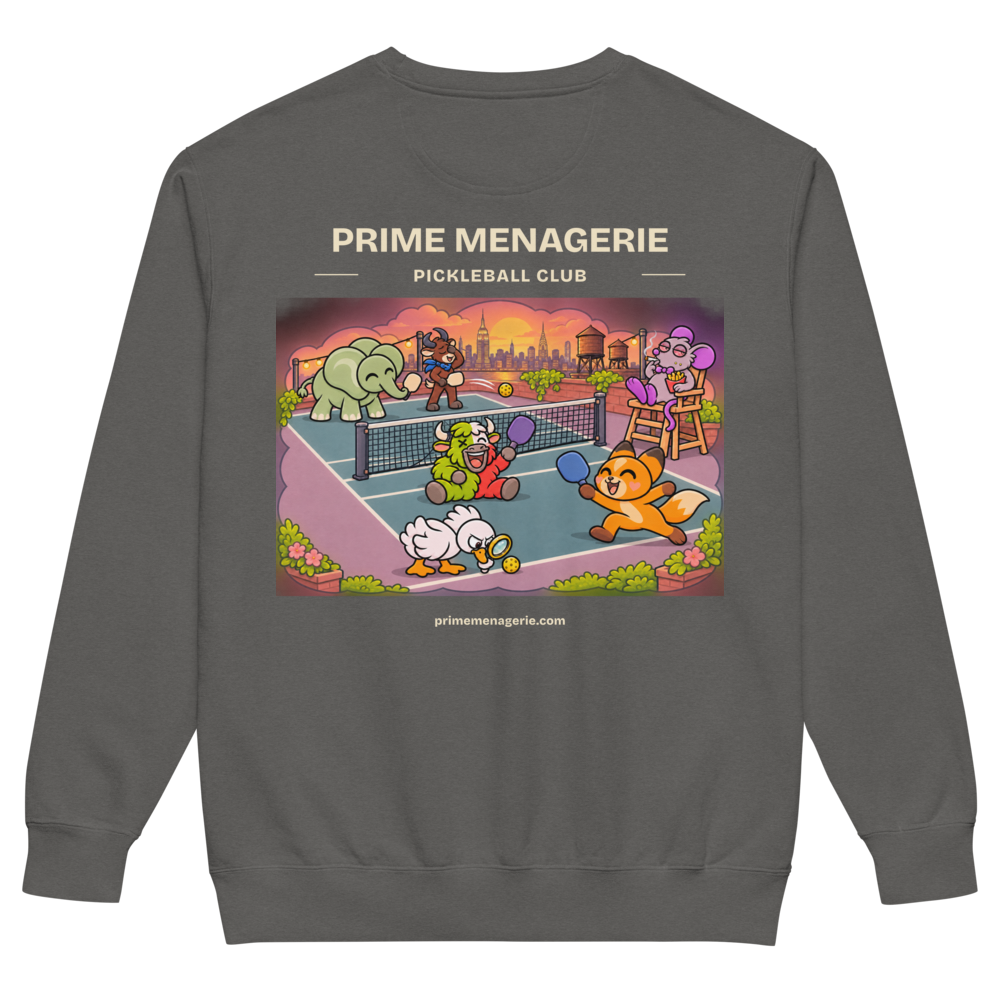
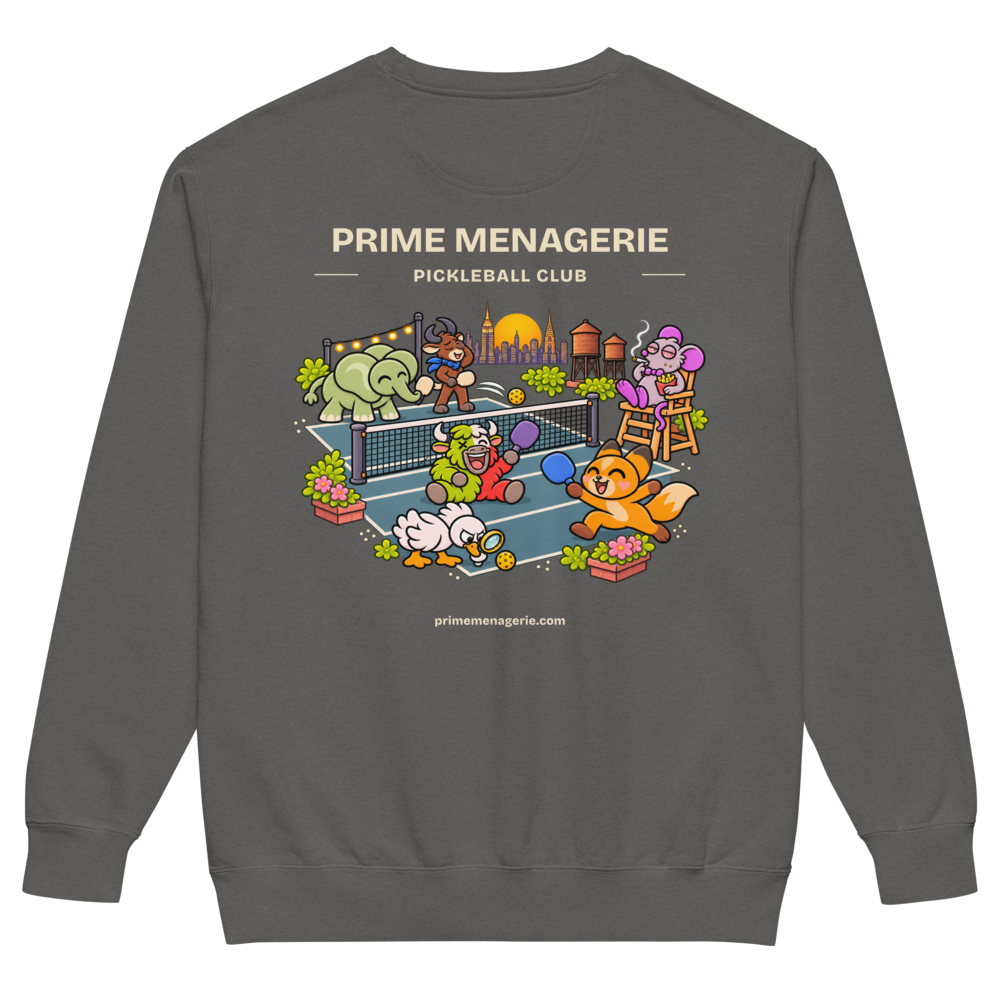
Publish organic cutout graphics on both club crewnecks (#101)
* Prepare organic cutout scenes for Pickleball and Bowling crewnecks

* Prepare storefront previews for organic crewneck graphics

Changed region(s): [[0.279, 0.279, 0.744, 0.62]]

diff --git a/src/lib/productPages.ts b/src/lib/productPages.ts
@@ -70,7 +70,7 @@ const KINDS: Record<string, Kind> = {
   },
   menagerieCrewneck: {
     label: 'Garment-dyed crewneck sweatshirt', productType: 'Apparel > Tops > Sweatshirts', apparel: true,
-    facts: ['Comfort Colors 1566, 80% ring-spun cotton and 20% polyester', 'Heavyweight 9.5 oz/yd² fleece with a 100% cotton face', 'Relaxed fit with ribbed collar, cuffs and waistband', 'Blue Spruce, Pepper, True Navy or Butter; garment dye may vary slightly', 'Printed left-chest badge and 15-inch-wide back illustration'],
+    facts: ['Comfort Colors 1566, 80% ring-spun cotton and 20% polyester', 'Heavyweight 9.5 oz/yd² fleece with a 100% cotton face', 'Relaxed fit with ribbed collar, cuffs and waistband', 'Blue Spruce, Pepper, True Navy or Butter; garment dye may vary slightly', 'Printed left-chest badge and 15-inch-wide cutout scene on the back'],
   },
   pickleballLongSleeve: {
     label: 'Garment-dyed heavyweight long sleeve', productType: 'Apparel > Tops > Long Sleeve Shirts', apparel: true,
@@ -135,9 +135,9 @@ const FC_BACK = 'The back reads 143 (pager code for I love you) over FAR FOX FC,
 
 /** What is on each product, in a few sentences, keyed by provider product id. */
 export const PRODUCT_COPY: Record<string, string> = {
-  '490239643': 'Rooftop doubles with the whole Prime Menagerie. Antelope teams up with the elephant across the net from Foxy and Scan Yak, Goose inspects the ball, and Slab Rat takes an exceptionally relaxed umpire shift. The New York skyline glows behind the court. A small Pickleball Club badge sits on the left chest, with the full scene and primemenagerie.com across the back. Printed on a soft Comfort Colors crewneck in Blue Spruce, Pepper, True Navy or Butter.',
+  '490239643': 'Rooftop doubles with the whole Prime Menagerie. Antelope teams up with the elephant across the net from Foxy and Scan Yak, Goose inspects the ball, and Slab Rat takes an exceptionally relaxed umpire shift. The New York skyline glows behind the court. A small Pickleball Club badge sits on the left chest, with an illustrated cutout scene and primemenagerie.com across the back. Printed on a soft Comfort Colors crewneck in Blue Spruce, Pepper, True Navy or Butter.',
   '490192967': 'Rooftop doubles with the whole Prime Menagerie. Antelope teams up with the elephant across the net from Foxy and Scan Yak, Goose inspects the ball, and Slab Rat takes an exceptionally relaxed umpire shift. The New York skyline glows behind the court. A small Pickleball Club badge sits on the left chest, with the full scene and primemenagerie.com across the back. Printed on a garment-dyed Comfort Colors long sleeve in Black, Blue Jean, Navy or White.',
-  '490151911': 'Six animals, one lane, and nobody keeping a straight face. The Prime Menagerie elephant bowls with his trunk while Scan Yak slides toward the pins. Foxy celebrates early, Antelope keeps score, Goose investigates a stubborn pin, and Slab Rat eats fries on the ball return. A small Bowling Club badge sits on the left chest, with the full scene and primemenagerie.com across the back. Printed on a soft Comfort Colors crewneck in Blue Spruce, Pepper, True Navy or Butter.',
+  '490151911': 'Six animals, one lane, and nobody keeping a straight face. The Prime Menagerie elephant bowls with his trunk while Scan Yak slides toward the pins. Foxy celebrates early, Antelope keeps score, Goose investigates a stubborn pin, and Slab Rat eats fries on the ball return. A small Bowling Club badge sits on the left chest, with an illustrated cutout scene and primemenagerie.com across the back. Printed on a soft Comfort Colors crewneck in Blue Spruce, Pepper, True Navy or Butter.',
   '490092600': 'Six animals, one questionable racecar, and a trophy already claimed. Foxy takes the wheel, Scan Yak throws his hooves up, and the Prime Menagerie elephant supplies the horsepower. Antelope waves the flag, Goose inspects a wheel, and Slab Rat lounges in the prize. Bold Prime Menagerie lettering sits above the large back scene, with primemenagerie.com below and a small elephant mark on the real chest pocket. Choose White, Butter, Violet or True Navy.',
   '490057447': 'A little encouragement for cold days. The dark-brown Affirming Antelope waves from the cuff, wearing its blue scarf and leaning over a cobalt line. Full-color embroidery on a soft cuffed beanie, in Heather Grey or Navy.',
   '490057449': 'Office chair. Rodeo rules. Scan Yak rides a tiny blue desk chair backwards, one hoof in the air and a chart flying behind him. The full-body scene and SCAN YAK lettering are embroidered on the cuff, in Black or Baby Pink.',

diff --git a/design/prime-menagerie-organic-graphics/README.md b/design/prime-menagerie-organic-graphics/README.md
@@ -1,0 +1,16 @@
+# Organic scene graphics — 2026-11-07
+
+The user approved the Pickleball cutout concept and requested publication. Apply the same treatment to the Bowling crewneck. Both remain Comfort Colors 1566, $59, four colorways, S–3XL, 15-inch back print. Preserve chest badges.
+
+Mode: built-in image generation/edit tool. The concept image is a visual direction, not a print file. Production uses separate transparent scene artwork and native typography.
+
+## Approved concept prompt
+
++Use case: precise-object-edit.
+Asset type: merchandise concept preview, full back of the existing Blue Spruce Comfort Colors crewneck.
+Inputs: Image 1 is the actual existing crewneck back mockup. Image 2 is its approved detailed Pickleball Club scene.
+Primary request: change ONLY the outer shape and surrounding negative space of the printed illustration so it looks organically integrated into the garment instead of like a rectangular picture pasted on it. Produce ONE polished full-garment back mockup, matching Image 1's garment silhouette, washed green fabric, lighting, scale and camera angle.
+Design treatment: a confident irregular silhouette cutout with areas of visible green shirt fabric. Remove all four straight cropped illustration edges and corners. Cut away the continuous pink perimeter court border, most empty surrounding floor, and the continuous rectangular sunset sky. Keep a compact connected court surface under the players and net, but taper and break its outer edges into a few sparse opaque screenprint dots. Let the outer outline follow the elephant ears, rat and umpire chair, fox tail, goose, flowering planters, water towers and skyline peaks, with substantial shirt-colored negative space between peripheral elements. Skyline buildings and the warm sun should emerge as distinct silhouettes above the scene; keep the NYC setting identifiable. Do not enclose the entire scene in a cloud border, oval, shield, frame, cream sticker outline or rectangular haze. Make the silhouette visibly irregular, not just round the corners. Preserve the sense of one integrated doubles scene and its legible net and court lines.
+Invariants: preserve all six approved characters, their poses, faces, scale relative to each other, illustration style and colors. Dark chestnut antelope with blue scarf remains the moss-green elephant's teammate on the far side of the net. Fox and Yak remain on the near side; goose in foreground; lounging purple rat in chair to right with fries, joint and visible smoke, heavy lids and very bloodshot red-veined eyes. Fox has smooth head, NO tuft, both ears black tipped. Yak viewer-left body AND leg green, viewer-right half red, gray hooves, white upper viewer-right forehead, X eye, ivory horns. Do not add or remove limbs, distort characters or invent new figures.
+Keep the exact cream typography from Image 1, in the same positions: PRIME MENAGERIE above PICKLEBALL CLUB with short side rules; primemenagerie.com beneath. Keep the overall graphic at the existing generous 15-inch-wide visual scale, not smaller.
+Keep the whole crewneck visible from collar to waistband and sleeve cuffs. Preserve transparent background outside the garment. Within the garment, removed ink reveals realistic green fabric, not transparent holes in the clothing. No comparison panels, labels, captions, watermark or extra text.

diff --git a/design/prime-menagerie-organic-graphics/production.md b/design/prime-menagerie-organic-graphics/production.md
@@ -1,0 +1,17 @@
+# Organic club graphics — production update, 2026-11-07
+
+User approved the organic Pickleball concept and requested publication. The same cutout treatment is applied to Bowling.
+
+- Pickleball Club Crewneck: existing product 490239643.
+- Bowling Club Crewneck: existing product 490151911.
+- Both remain Comfort Colors 1566, $59, Blue Spruce / Pepper / True Navy / Butter, S–3XL (24 variants each).
+- Back placement remains `back_large_dtf`, 2250 × 2700 at 150 dpi, 15-inch print area.
+- Existing chest print-file URLs are retained exactly. Product and variant IDs are preserved.
+- New transparent scene art uses silhouettes and negative space instead of rectangular background panels. The Bowling lane stays continuous under and beyond Scan Yak.
+- Native typography and primemenagerie.com remain; cream on dark colors and forest on Butter.
+- The built-in image edit tool created the transparent scene assets. Prompts are included beside this document. Native SVG composition creates the final printer files without repainting the generated scene.
+- Source art has actual alpha transparency, verified on Butter as well as dark backgrounds. The generated image viewer may display hidden RGB outside the alpha mask; that color does not print.
+- Immutable art base: https://raw.githubusercontent.com/blakeparkinson/farfox-landing/0f11fa2/public/shop/designs/organic-clubs-2026-11
+- Existing long-sleeve, Scan Yak beanie and Halloween exclusions remain unchanged.
+
+The local `design/organic-clubs-release.json` stores the original provider records and mockup tasks for recovery. It is not committed. The release helper does not place orders.
